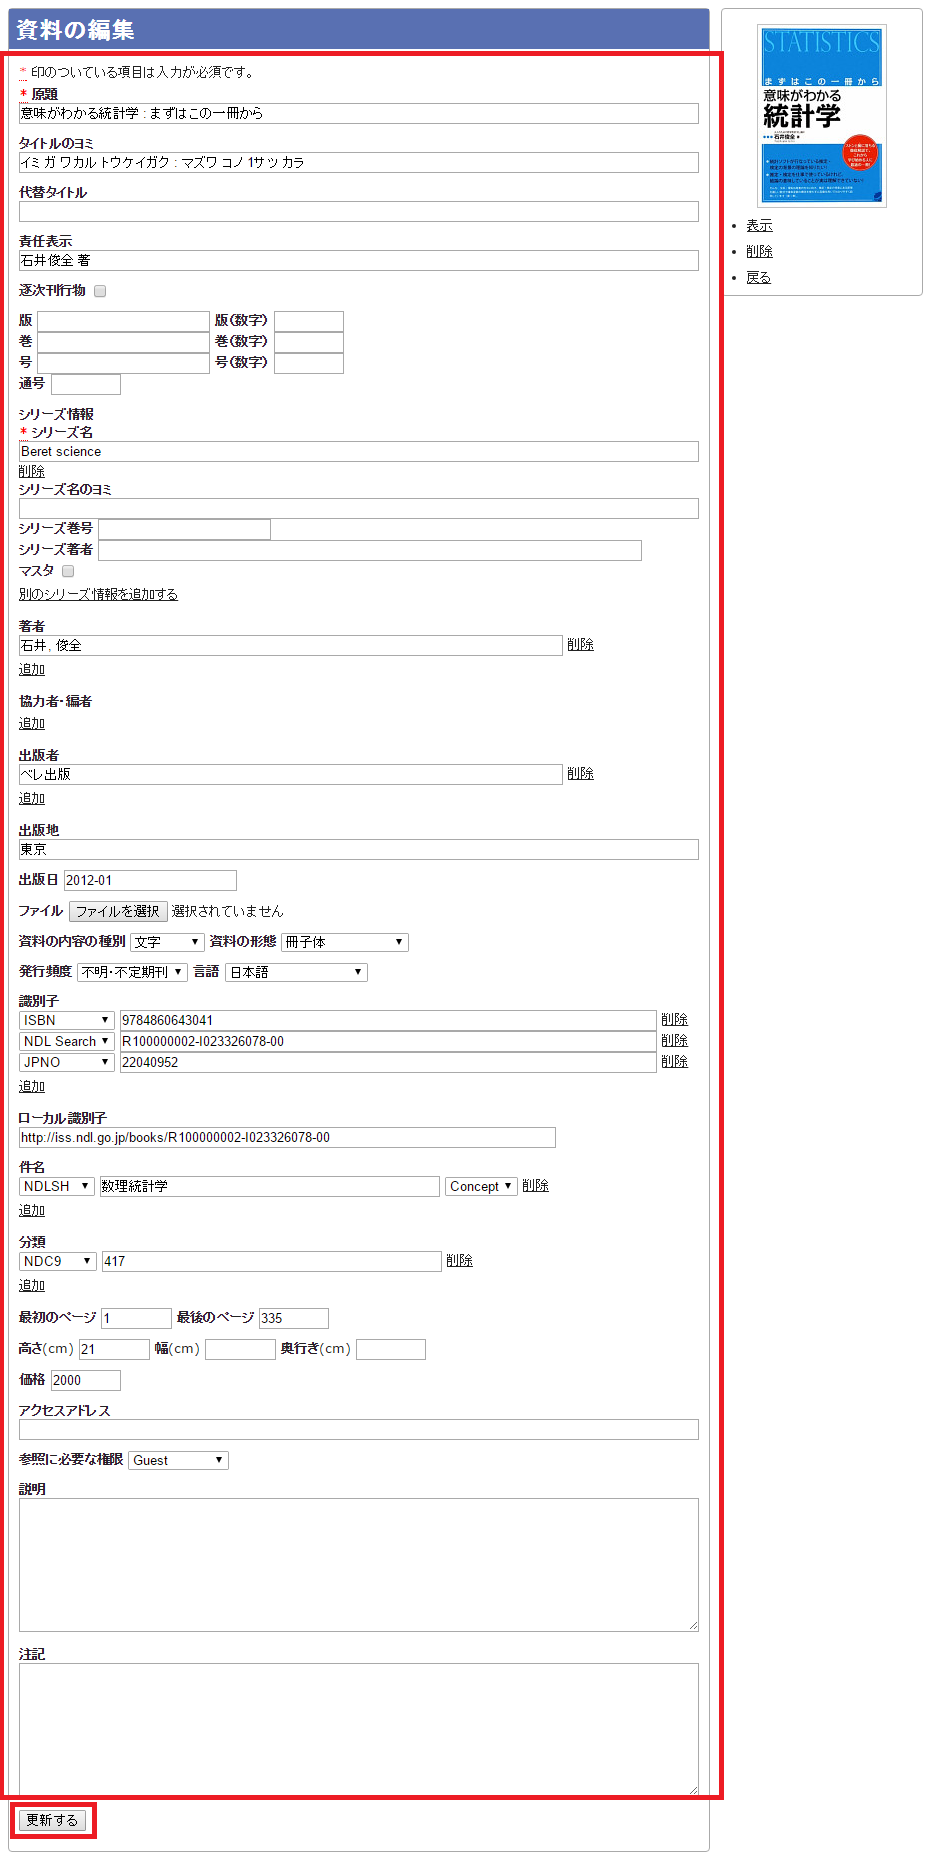
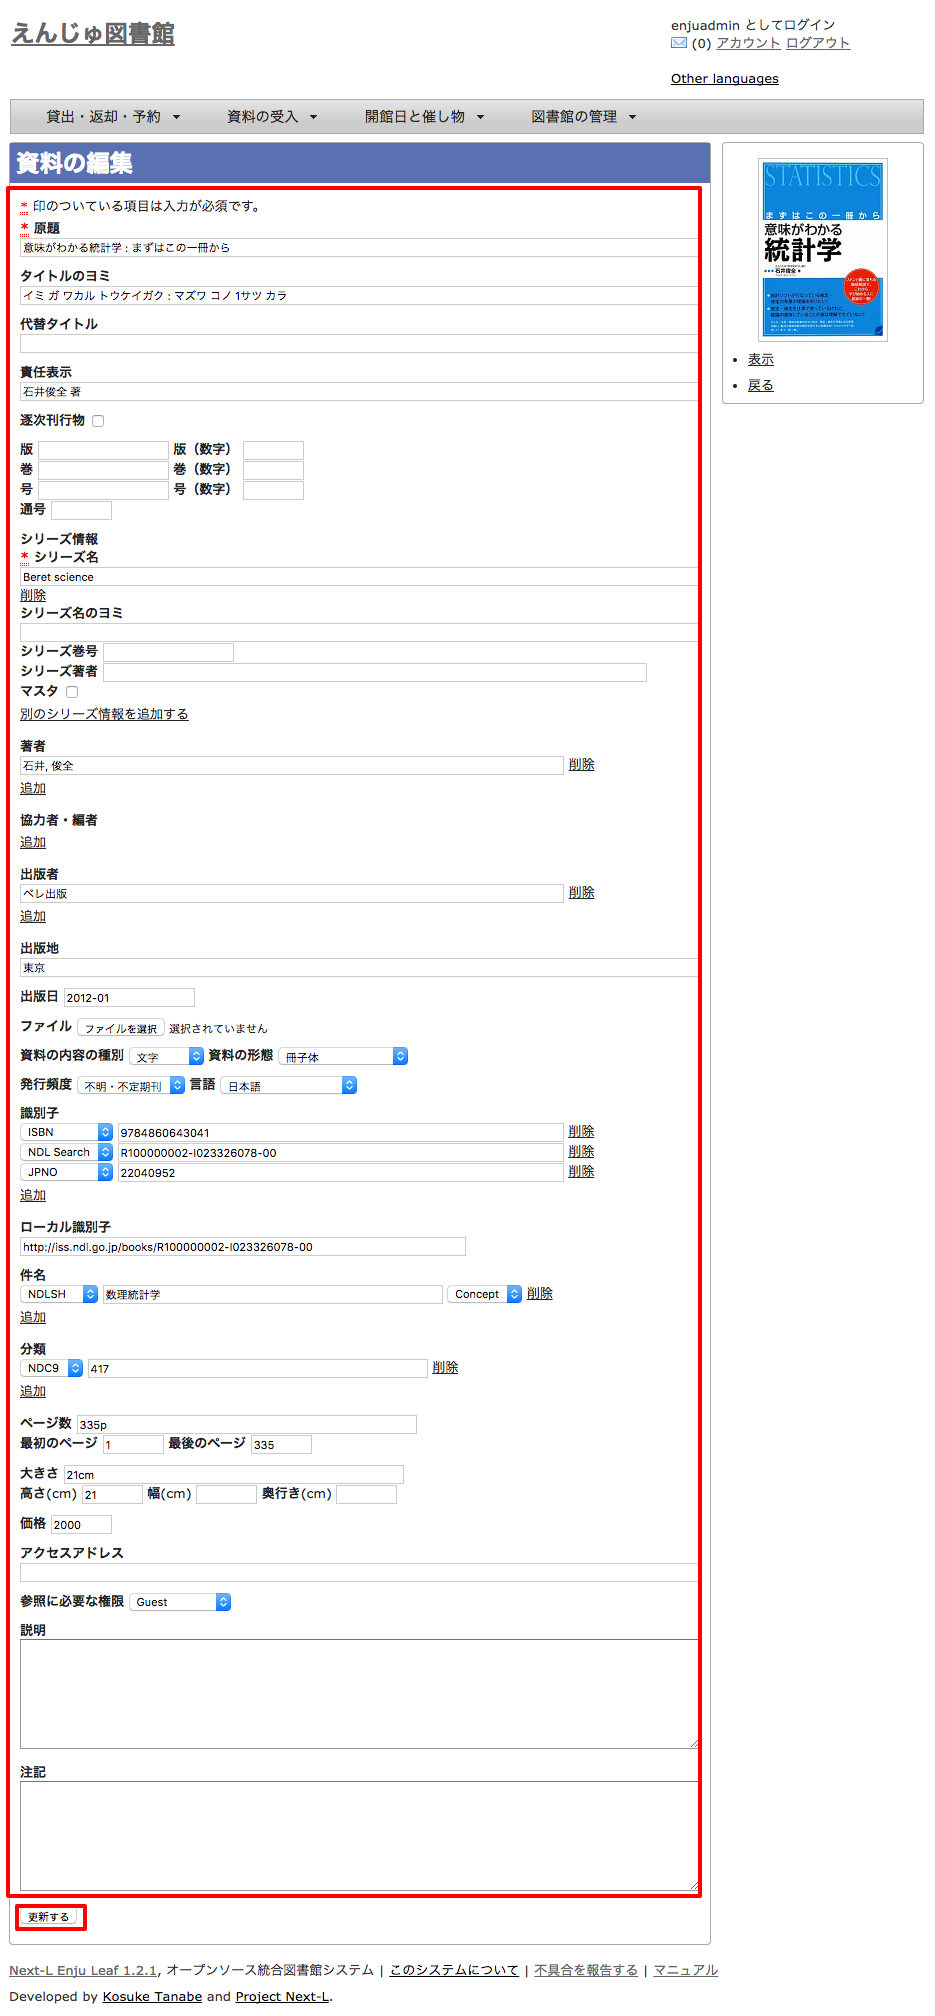
図の差し替え（ページ数と大きさの間に;） https://github.com/next-l/enju_leaf/issues/1206

diff --git a/1.2/enju_operation_4.md b/1.2/enju_operation_4.md
@@ -492,7 +492,7 @@ CiNii Books（<http://ci.nii.ac.jp/books/>）を検索した資料を
 <div class="alert alert-info memo" markdown="1">
 【Memo】ここで、本のタイトルのリンクをたどり、その先の資料の表示画面の右メニュー[編集]をクリックすることでも編集画面に移動します。
 
-![編集](../assets/images/1.1/image_operation_bib_ed_3.png)
+![編集](../assets/images/1.2/image_operation_bib_ed_3.png)
 </div>
 
 #### 3. 編集をし、［更新する］ボタンをクリックします。  
@@ -501,7 +501,7 @@ CiNii Books（<http://ci.nii.ac.jp/books/>）を検索した資料を
 
 #### 4. 「資料は正常に更新されました。」と表示され、書誌が更新されます。
 
-![更新されました](../assets/images/1.1/image_operation_bib_ed_5.png)
+![更新されました](../assets/images/1.2/image_operation_bib_ed_5.png)
 
 ### 4-2-9 TSVファイルを読み込んで更新する {#section4-2-9}
 
